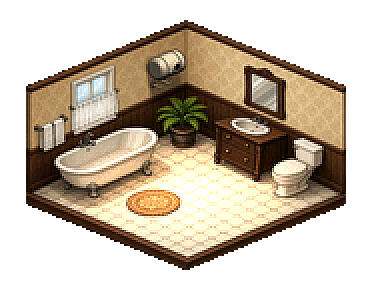
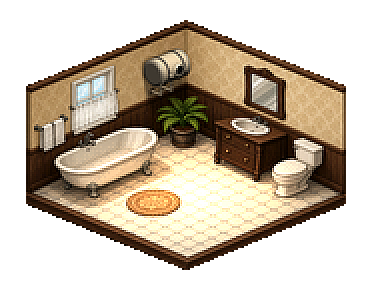
House 3a: bedroom floor label, study AC alt2, larger heater detail
- Bedroom (and study/bathroom/balcony/generic) get a floorLabel so when both
  back walls are cut the room name sits on clear floor, not the pillows.
  New bedroomFloorLabelClearsBedWhenBothWallsCut test.
- Study AC gets alt2 on clear floor right of the desk; when the right-front
  neighbour lifts the primary alt onto the desk front, composer picks the
  less-moved alt2. Study badge b1 nudged to keep ≥38px clearance.
- Water heater enlarged (R 13.8, longer tank) with thicker straps, rivets,
  end rings, bigger gauge, thicker pipes; overlays stay on the same geometry.

Changed region(s): [[0.3844, 0.1678, 0.5323, 0.3636], [0.414, 0.3636, 0.4731, 0.3916]]

diff --git a/Tests/MijiaCoreTests/HouseComposerTests.swift b/Tests/MijiaCoreTests/HouseComposerTests.swift
@@ -253,6 +253,26 @@ import CoreGraphics
     }
 
     /// 地面房间名标签不压徽章位；除了挤的阳台，也不压吸顶灯 / 被切灯具的 alt 位置框（含 App 里前右格放玄关的布局）
+    /// 两面后墙都被切时，卧室名标签落在 floorLabel（地毯右侧空地），不压在枕头上
+    @Test func bedroomFloorLabelClearsBedWhenBothWallsCut() throws {
+        let (cat, images) = try Self.load("day")
+        #expect(cat.modules["bedroom"]?.floorLabel != nil, "bedroom needs a floorLabel")
+        #expect(cat.modules["study"]?.floorLabel != nil, "study needs a floorLabel")
+        // composed2：卧室在 (1,1)，前面有厨房、左边有卫生间 → NW / NE 都切
+        let lay: [HouseLayoutCell] = [
+            .init(room: "k", module: "kitchen", col: 0, row: 0), .init(room: "l", module: "living", col: 1, row: 0),
+            .init(room: "w", module: "bathroom", col: 0, row: 1), .init(room: "b", module: "bedroom", col: 1, row: 1),
+            .init(room: "y", module: "balcony", col: 2, row: 1)]
+        let r = HouseComposer.compose(.init(layout: lay, catalog: cat, images: images))
+        let j = try JSONSerialization.jsonObject(with: r.sceneJSON) as! [String: Any]
+        let m = try #require((j["modules"] as? [String: [String: Any]])?["b"])
+        let lab = try #require(m["label"] as? [Double])
+        let badges = try #require(m["badges"] as? [[Double]])
+        // 地板徽章 y≈403；枕头在床上 y≈320–350。标签应贴近地板徽章带
+        let badgeY = badges.map { $0[1] }.min()!
+        #expect(lab[1] > badgeY - 50, "bedroom label \(lab) still on pillows (badgeY=\(badgeY))")
+    }
+
     @Test func floorLabelsClearBadgesAndAltSpots() throws {
         let (cat, images) = try Self.load("day")
         var all = Self.layouts

diff --git a/Tests/MijiaCoreTests/HouseTests.swift b/Tests/MijiaCoreTests/HouseTests.swift
@@ -287,7 +287,13 @@ private func resolve(_ ds: [Device], _ cfg: HomeHouse? = nil, hidden: Set<String
                 .flatMap { L -> [(String, [Double])] in ["alt", "alt2"].compactMap { k in (L[k] as? [Double]).map { ("\(L["id"] as? String ?? "?").\(k)", $0) } } }
             for (i, (id, a)) in alts.enumerated() {
                 for b in badges { #expect(dist(a, b) >= 38, "\(m) \(id) alt \(a) vs badge \(b)") }
-                for (id2, a2) in alts[(i + 1)...] { #expect(dist(a, a2) >= 38, "\(m) \(id) vs \(id2)") }
+                // alt / alt2 是同一灯具的备选，不会同时画；只要求和其他灯具的位拉开
+                let fixture = id.split(separator: ".").first.map(String.init) ?? id
+                for (id2, a2) in alts[(i + 1)...] {
+                    let fixture2 = id2.split(separator: ".").first.map(String.init) ?? id2
+                    if fixture == fixture2 { continue }
+                    #expect(dist(a, a2) >= 38, "\(m) \(id) vs \(id2)")
+                }
             }
         }
     }

diff --git a/scripts/house_modules/appliance_models.py b/scripts/house_modules/appliance_models.py
@@ -85,51 +85,59 @@ class Washer:
 
 # ---------------- 热水器（卫生间 NW 墙，横置储水式电热水器） ----------------
 class Heater:
-    Yc = 0.175 * S
-    L = 0.15 * S                       # 罐体长度（沿墙）
-    R = 11.2
-    Xc = 12.5
-    Zc = 74 * CZ
+    Yc = 0.18 * S
+    L = 0.18 * S                       # 罐体长度（沿墙）— 像素化后要读得出圆柱和挂带
+    R = 13.8
+    Xc = 14.0
+    Zc = 72 * CZ
     def scene(s, p):
         c = np.array([s.Xc, s.Yc, s.Zc])
-        tank = sd_cyl_y(p, c, s.R, s.L / 2, 3.2)
-        # 两端装饰圈（浅灰端盖）
-        caps = np.maximum(tank - 0.15, -sd_cyl_y(p, c, s.R + 1, s.L / 2 - 3.0))
-        # 挂墙支架带
-        straps = np.minimum(sd_cyl_y(p, c + np.array([0, s.L / 2 - 8, 0]), s.R + 0.4, 0.9, 0.3),
-                            sd_cyl_y(p, c - np.array([0, s.L / 2 - 8, 0]), s.R + 0.4, 0.9, 0.3))
+        tank = sd_cyl_y(p, c, s.R, s.L / 2, 3.6)
+        # 两端装饰圈（更深的端盖 + 凸起的装饰环）
+        caps = np.maximum(tank - 0.2, -sd_cyl_y(p, c, s.R + 1.2, s.L / 2 - 3.6))
+        rings = np.minimum(sd_cyl_y(p, c + np.array([0, s.L / 2 - 2.2, 0]), s.R + 0.55, 0.55, 0.2),
+                           sd_cyl_y(p, c - np.array([0, s.L / 2 - 2.2, 0]), s.R + 0.55, 0.55, 0.2))
+        # 挂墙支架带（更宽、更深，像素里能看出两根）
+        straps = np.minimum(sd_cyl_y(p, c + np.array([0, s.L / 2 - 9.5, 0]), s.R + 0.7, 1.3, 0.35),
+                            sd_cyl_y(p, c - np.array([0, s.L / 2 - 9.5, 0]), s.R + 0.7, 1.3, 0.35))
         straps = np.maximum(straps, -(p[:, 0] - 0.0))
-        # 正面圆形显示窗（凸起表盘）
-        dc = np.array([s.Xc + s.R - 0.2, s.Yc - 3.0, s.Zc + 0.8])
-        bezel = np.maximum(sd_cyl_x(p, dc, 5.4, 0.9, 0.5), -sd_cyl_x(p, dc + np.array([1.0, 0, 0]), 4.2, 0.6))
-        screen = sd_cyl_x(p, dc + np.array([0.75, 0, 0]), 4.1, 0.25, 0.1)
-        knob = sd_cyl_x(p, np.array([s.Xc + s.R - 0.6, s.Yc + 6.5, s.Zc - 1.6]), 1.6, 1.0, 0.4)
-        # 下方两根进 / 出水管 + 阀门
+        # 挂带上的铆钉（小圆点，像素化后是深色格）
+        riv = 1e9
+        for dy in (s.L / 2 - 9.5, -(s.L / 2 - 9.5)):
+            for ang in (-0.55, 0.0, 0.55):
+                rx = s.Xc + (s.R + 0.5) * np.cos(ang); rz = s.Zc + (s.R + 0.5) * np.sin(ang)
+                riv = np.minimum(riv, sd_cyl_x(p, np.array([rx, s.Yc + dy, rz]), 0.55, 0.7, 0.15))
+        # 正面圆形显示窗（更大的凸起表盘）
+        dc = np.array([s.Xc + s.R - 0.15, s.Yc - 3.5, s.Zc + 1.0])
+        bezel = np.maximum(sd_cyl_x(p, dc, 6.6, 1.1, 0.55), -sd_cyl_x(p, dc + np.array([1.1, 0, 0]), 5.1, 0.7))
+        screen = sd_cyl_x(p, dc + np.array([0.85, 0, 0]), 4.9, 0.3, 0.12)
+        knob = sd_cyl_x(p, np.array([s.Xc + s.R - 0.5, s.Yc + 7.8, s.Zc - 2.0]), 1.9, 1.15, 0.45)
+        # 下方两根进 / 出水管 + 阀门（更粗、带弯头）
         pipes = 1e9
-        for dy in (-6.5, 6.5):
-            pc = np.array([s.Xc - 1.0, s.Yc + dy, s.Zc - s.R - 6.0])
-            pipes = np.minimum(pipes, sd_cyl_z(p, pc, 0.9, 6.5, 0.3))
-            pipes = np.minimum(pipes, sd_cyl_z(p, pc - np.array([0, 0, 3.0]), 1.5, 0.9, 0.4))
-        bend = np.minimum(sd_cyl_x(p, np.array([s.Xc / 2 - 0.5, s.Yc - 6.5, s.Zc - s.R - 12.0]), 0.9, s.Xc / 2, 0.3),
-                          sd_cyl_x(p, np.array([s.Xc / 2 - 0.5, s.Yc + 6.5, s.Zc - s.R - 12.0]), 0.9, s.Xc / 2, 0.3))
-        return _u((tank, ENAMEL), (caps, PLASTIC), (straps, STRAP), (bezel, CHROME), (screen, SCREEN),
-                  (knob, CHROME), (pipes, PIPE), (bend, PIPE))
+        for dy in (-7.5, 7.5):
+            pc = np.array([s.Xc - 1.2, s.Yc + dy, s.Zc - s.R - 7.0])
+            pipes = np.minimum(pipes, sd_cyl_z(p, pc, 1.15, 7.5, 0.35))
+            pipes = np.minimum(pipes, sd_cyl_z(p, pc - np.array([0, 0, 3.5]), 1.85, 1.1, 0.45))
+        bend = np.minimum(sd_cyl_x(p, np.array([s.Xc / 2 - 0.5, s.Yc - 7.5, s.Zc - s.R - 14.0]), 1.1, s.Xc / 2, 0.35),
+                          sd_cyl_x(p, np.array([s.Xc / 2 - 0.5, s.Yc + 7.5, s.Zc - s.R - 14.0]), 1.1, s.Xc / 2, 0.35))
+        return _u((tank, ENAMEL), (caps, PLASTIC), (rings, CHROME), (straps, STRAP), (riv, CHROME),
+                  (bezel, CHROME), (screen, SCREEN), (knob, CHROME), (pipes, PIPE), (bend, PIPE))
     def material(s, p, n, ids):
-        # 像素化后只剩 ~11 格高：搪瓷压一点亮度、端盖 / 挂带更深，罐体的圆柱明暗和轮廓才读得出来
+        # 像素化后 ~14 格高：搪瓷压一点亮度、端盖 / 挂带更深，圆柱明暗和挂带轮廓才读得出来
         alb, spec, shin, env = material(p, n, ids)
-        m = ids == ENAMEL; alb[m] = (0.86, 0.84, 0.80); spec[m] = 0.16; env[m] = 0.03
-        alb[ids == PLASTIC] = (0.60, 0.60, 0.60); alb[ids == STRAP] = (0.34, 0.34, 0.36)
+        m = ids == ENAMEL; alb[m] = (0.84, 0.82, 0.78); spec[m] = 0.18; env[m] = 0.03
+        alb[ids == PLASTIC] = (0.52, 0.52, 0.52); alb[ids == STRAP] = (0.30, 0.30, 0.32)
         return alb, spec, shin, env
     def bbox(s, T):
         pts = [proj(np.array([x, y, z]), T) for x in (0, s.Xc + s.R + 2) for y in (s.Yc - s.L / 2, s.Yc + s.L / 2)
-               for z in (s.Zc - s.R - 14, s.Zc + s.R + 1)]
+               for z in (s.Zc - s.R - 16, s.Zc + s.R + 2)]
         xs, ys = [q[0] for q in pts], [q[1] for q in pts]
         return int(min(xs)) - 8, int(min(ys)) - 6, int(max(xs)) + 12, int(max(ys)) + 10
     def anchors(s, T):
-        dc = np.array([s.Xc + s.R + 0.8, s.Yc - 3.0, s.Zc + 0.8])
+        dc = np.array([s.Xc + s.R + 0.9, s.Yc - 3.5, s.Zc + 1.0])
         P = lambda q: [round(float(c), 1) for c in proj(q, T)]
-        ring = [P(dc + np.array([0, 3.7 * np.cos(a), 3.7 * np.sin(a)])) for a in np.linspace(0, 2 * np.pi, 8, endpoint=False)]
-        led = P(np.array([s.Xc + s.R - 0.4, s.Yc + 2.6, s.Zc - 2.4]))
+        ring = [P(dc + np.array([0, 4.5 * np.cos(a), 4.5 * np.sin(a)])) for a in np.linspace(0, 2 * np.pi, 8, endpoint=False)]
+        led = P(np.array([s.Xc + s.R - 0.3, s.Yc + 3.2, s.Zc - 2.8]))
         c = np.array([s.Xc, s.Yc, s.Zc])
         body = [P(c + np.array([s.R, s.L / 2, s.R])), P(c + np.array([s.R, -s.L / 2, s.R])),
                 P(c + np.array([s.R, -s.L / 2, -s.R])), P(c + np.array([s.R, s.L / 2, -s.R]))]

diff --git a/scripts/house_modules/fixtures.py b/scripts/house_modules/fixtures.py
@@ -40,21 +40,25 @@ def flow_reveal(g, u, v, sx):
     x, y = P(g, u, v, 72)
     return [x + 10 * sx, y + 20, 44, 34]
 
-def ac_nw(g, alt=(0.28, 0.42)):
+def ac_nw(g, alt=(0.28, 0.42), alt2=None):
     """NW 墙壁挂空调（卧室源图里画的那台；客厅用 module_ac 同位置贴了一台）。
     所在墙被切掉时：空调本体不可见，App 在地上 alt 点显示一个空调徽章代替。"""
-    return {"id": "ac", "kind": "ac", "role": "ac", "slot": 0, "wall": "nw",
-            "vent": [P(g, 0.02, 0.6, 72), P(g, 0.02, 0.38, 72)], "led": P(g, 0.02, 0.34, 84),
-            "core": quad(g, 0.02, 0.46, 81, 50, 22), "reveal": flow_reveal(g, 0.02, 0.49, 1),
-            "anchor": P(g, 0.02, 0.46, 81), "alt": P(g, *alt)}
+    d = {"id": "ac", "kind": "ac", "role": "ac", "slot": 0, "wall": "nw",
+         "vent": [P(g, 0.02, 0.6, 72), P(g, 0.02, 0.38, 72)], "led": P(g, 0.02, 0.34, 84),
+         "core": quad(g, 0.02, 0.46, 81, 50, 22), "reveal": flow_reveal(g, 0.02, 0.49, 1),
+         "anchor": P(g, 0.02, 0.46, 81), "alt": P(g, *alt)}
+    if alt2: d["alt2"] = P(g, *alt2)
+    return d
 
-def ac_ne(g, u0, u1, alt):
+def ac_ne(g, u0, u1, alt, alt2=None):
     """NE 墙壁挂空调（卧室那台镜像过来、缩短，见 scripts/house_modules/add_ac.py）：u0..u1 = 出风口沿墙的范围。"""
     um = (u0 + u1) / 2
-    return {"id": "ac", "kind": "ac", "role": "ac", "slot": 0, "wall": "ne",
-            "vent": [P(g, u0, 0.02, 72), P(g, u1, 0.02, 72)], "led": P(g, u0 + 0.05, 0.02, 85),
-            "core": quad(g, um + 0.03, 0.02, 81, 40, 22), "reveal": flow_reveal(g, um, 0.02, -1),
-            "anchor": P(g, um, 0.02, 80), "alt": P(g, *alt)}
+    d = {"id": "ac", "kind": "ac", "role": "ac", "slot": 0, "wall": "ne",
+         "vent": [P(g, u0, 0.02, 72), P(g, u1, 0.02, 72)], "led": P(g, u0 + 0.05, 0.02, 85),
+         "core": quad(g, um + 0.03, 0.02, 81, 40, 22), "reveal": flow_reveal(g, um, 0.02, -1),
+         "anchor": P(g, um, 0.02, 80), "alt": P(g, *alt)}
+    if alt2: d["alt2"] = P(g, *alt2)
+    return d
 
 def curtain(g, name, wall, alt, alt2=None):
     """窗帘位：贴片（scripts/house_modules/curtains.py）在运行时叠在窗上，按开合度露出两侧的一部分；
@@ -123,17 +127,21 @@ def spec(module):
                   # alt2 = 床尾和地毯之间的地板（只有前排有房间时才需要挪）。composer 选挪动少的那个
                   curtain(g, 'bedroom', 'ne', (0.99, 0.34), alt2=(0.82, 0.82))]
         badges = b([(0.55, 0.8), (0.8, 0.55), (0.3, 0.85)])   # b3 挪到地毯左边（原位置和 b1 挨着、离空调 alt 太近）
+        floor_label = P(g, 0.65, 0.95, 0)   # 两面后墙都被切时：地毯右侧、床尾前的空地（不压枕头）
     elif module == 'study':
         lights = [ceiling(g, 'ceiling', 0.55, 0.55),
                   {"id": "monitor", "kind": "screen", "role": "tv", "slot": 0, "style": "monitor",
                    "screen": quad(g, 0.48, 0.12, 46, 24, 20), "throw": [-8, 35], "radius": 60,
                    "reveal": ell(g, 0.5, 0.35, 85, 65)},
-                  ac_ne(g, 0.71, 0.93, alt=(0.82, 0.27)),   # 窗右侧的 NE 外墙（书房在第一排时这面墙完整）
+                  # alt = 书桌右侧、NE 墙根；右边邻格同高时会被右前沿推到书桌前 → alt2 = 地毯前的空地
+                  ac_ne(g, 0.71, 0.93, alt=(0.82, 0.27), alt2=(0.95, 0.5)),  # alt2 = 书桌右前方空地（右邻同高时用）
                   curtain(g, 'study', 'ne', (0.38, 0.4))]    # alt = 书桌前的空地（不落在椅子上）
-        badges = b([(0.55, 0.85), (0.85, 0.6), (0.3, 0.7)])
+        badges = b([(0.55, 0.85), (0.9, 0.75), (0.3, 0.7)])   # b1 挪开，给空调 alt2 腾空地
+        floor_label = P(g, 0.45, 0.9, 0)   # 两面后墙都被切时：地毯左侧空地
     elif module == 'generic':
         lights = [ceiling(g, 'entry_light', 0.5, 0.55)]
-        badges = b([(0.55, 0.85), (0.85, 0.6), (0.3, 0.7)])
+        badges = b([(0.55, 0.85), (0.9, 0.75), (0.3, 0.7)])
+        floor_label = P(g, 0.5, 0.55, 0)
     elif module == 'kitchen':
         # 吊灯本体不画（剖面里吊在半空，切墙时会被竖条切成半个）：按看不见灯具的吸顶灯处理，光池落在餐桌上
         lights = [ceiling(g, 'pendant', 0.37, 0.37), fridge(), curtain(g, 'kitchen', 'nw', (0.1, 0.85))]   # alt = 窗下 NW 墙根
@@ -143,10 +151,12 @@ def spec(module):
     elif module == 'bathroom':
         lights = [ceiling(g, 'ceiling', 0.5, 0.5), water_heater(g)]
         badges = b(SPREAD)
+        floor_label = P(g, 0.55, 0.9, 0)   # 两面后墙都被切时：浴缸前的空地
     elif module == 'balcony':
         lights = [dict(lamp(g, 'wall_lamp', 0.02, 0.69, 72, wall='nw', kind='sconce'), radius=80, pool=ell(g, 0.3, 0.7, 100, 40),
                      alt=P(g, 0.4, 0.97)), washer(g)]   # alt = 洗衣机左前方的空地（墙根被洗衣机和藤椅占了）
         badges = b(SPREAD)
+        floor_label = P(g, 0.55, 0.55, 0)   # 两面后墙都被切时：阳台地板中央
     else:
         raise KeyError(module)
     d = dict(label=lab, badges=badges, lights=lights)

diff --git a/docs/HOUSE_MODULES.md b/docs/HOUSE_MODULES.md
@@ -118,7 +118,9 @@ their light — the floor pool comes from the full-wall lit image, which is what
 pool, so they carry an `alt` floor point where the app shows an AC badge instead (curtains / water heater / wall lamp
 too). Each `alt` is hand-picked clear floor near the fixture's wall — not on furniture, ≥38px from the module's
 badge spots and from other alts (`moduleAltSpotsClearOfBadges`). The composer keeps it (lifted with the floor) and only
-nudges it ≤12px if a composed badge lands within 30px; ceiling-light edit spots still dodge badges upward. Only the segment that
+nudges it ≤12px if a composed badge lands within 30px; ceiling-light edit spots still dodge badges upward.
+An optional `alt2` is used when `floorPointLift` would push `alt` inward onto furniture (bedroom curtain, study AC).
+Modules also carry a `floorLabel` used when both back walls are cut, so the room name sits on clear floor, not the bed. Only the segment that
 actually holds the fixture matters (living's sconce is on NE segment 0; a room behind segment 1 doesn't hide it).
 
 Fixture ids: living `floor_lamp`/`sconce`/`tv`/`ac`, bedroom `bedside`/`ac`, study `ceiling`/`monitor`/`ac`,
